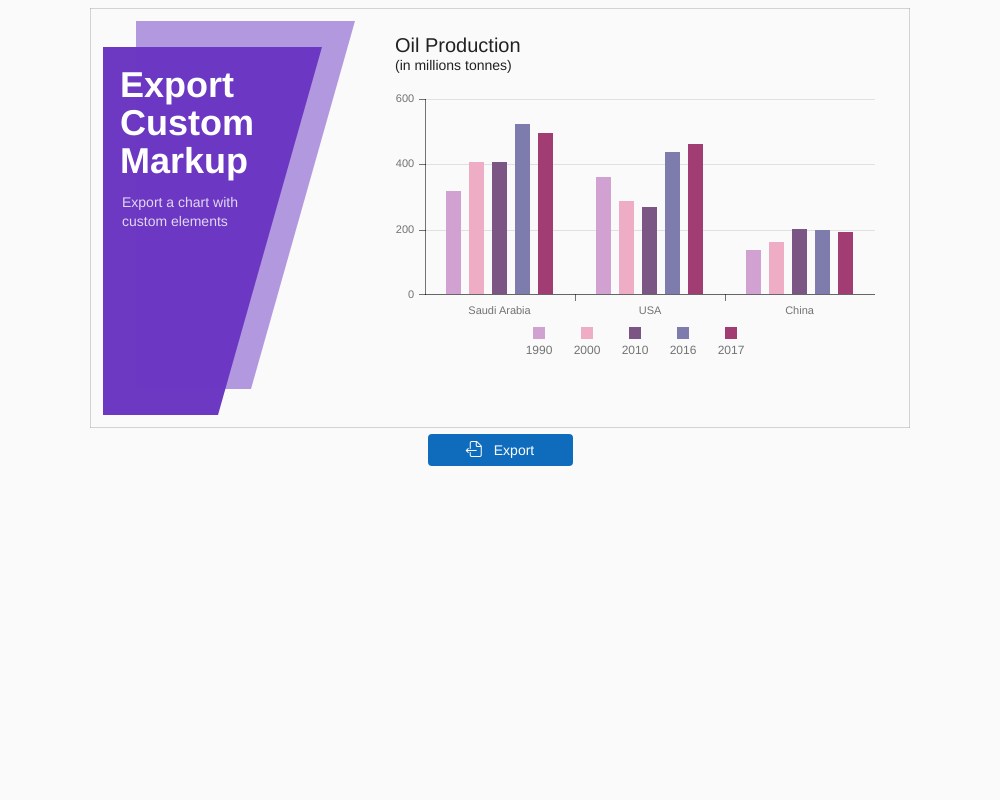
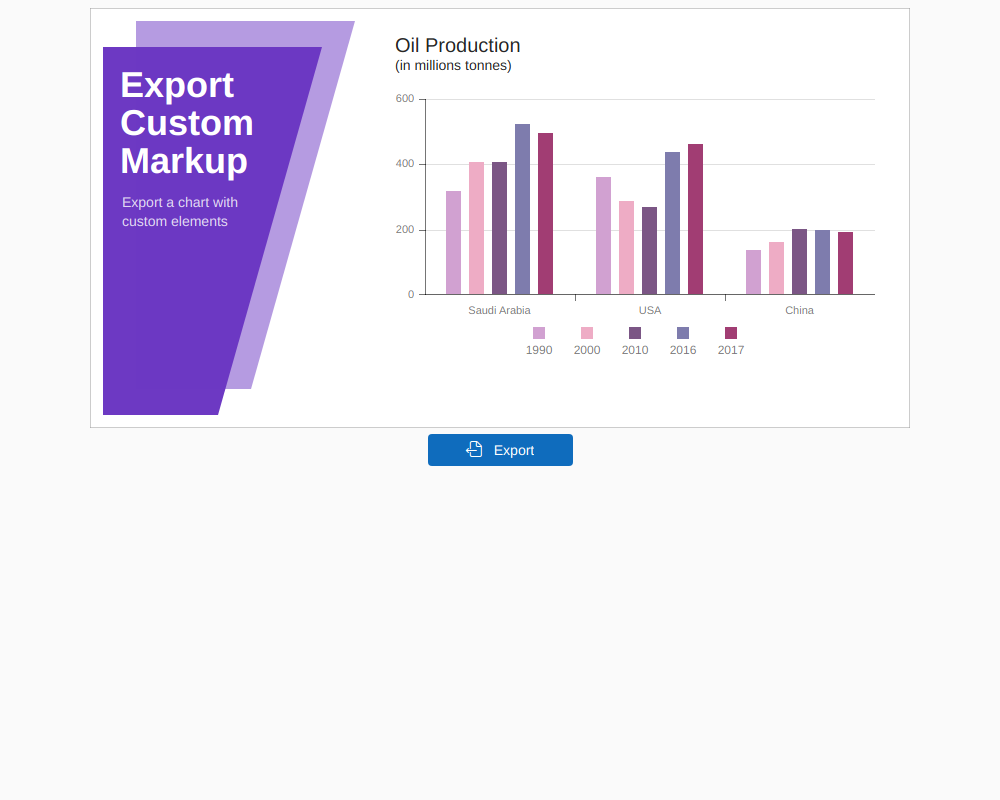
fix etalons, regenerate reactjs

diff --git a/apps/demos/Demos/Charts/ExportCustomMarkup/ReactJs/App.js b/apps/demos/Demos/Charts/ExportCustomMarkup/ReactJs/App.js
@@ -39,14 +39,11 @@ function App() {
       format: 'png',
       svgToCanvas(svg, canvas) {
         return new Promise((resolve) => {
-          return new Promise((resolve) => {
-            const v = Canvg.fromString(
-                canvas.getContext("2d"),
-                new XMLSerializer().serializeToString(svg)
-            );
-
-            resolve(v.render());
-          });
+          const v = Canvg.fromString(
+            canvas.getContext('2d'),
+            new XMLSerializer().serializeToString(svg),
+          );
+          resolve(v.render());
         });
       },
     });

diff --git a/apps/demos/Demos/Charts/ExportCustomMarkup/ReactJs/Form.js b/apps/demos/Demos/Charts/ExportCustomMarkup/ReactJs/Form.js
@@ -11,12 +11,13 @@ const Form = React.forwardRef((_, ref) => (
       height="420px"
     >
       <path
-          d="M 0 0 L 820 0 L 820 420 L 0 420 L 0 0"
-          stroke="#999999"
-          strokeWidth="1"
-          strokeLinecap="butt"
-          fill="white"
-          strokeLinejoin="miter"
+        opacity="1"
+        d="M 0 0 L 820 0 L 820 420 L 0 420 L 0 0"
+        stroke="#999999"
+        strokeWidth="1"
+        strokeLinecap="butt"
+        fill="white"
+        strokeLinejoin="miter"
       ></path>
       <path
         d="M 13 407 L 128 407 L 232 39 L 13 39"